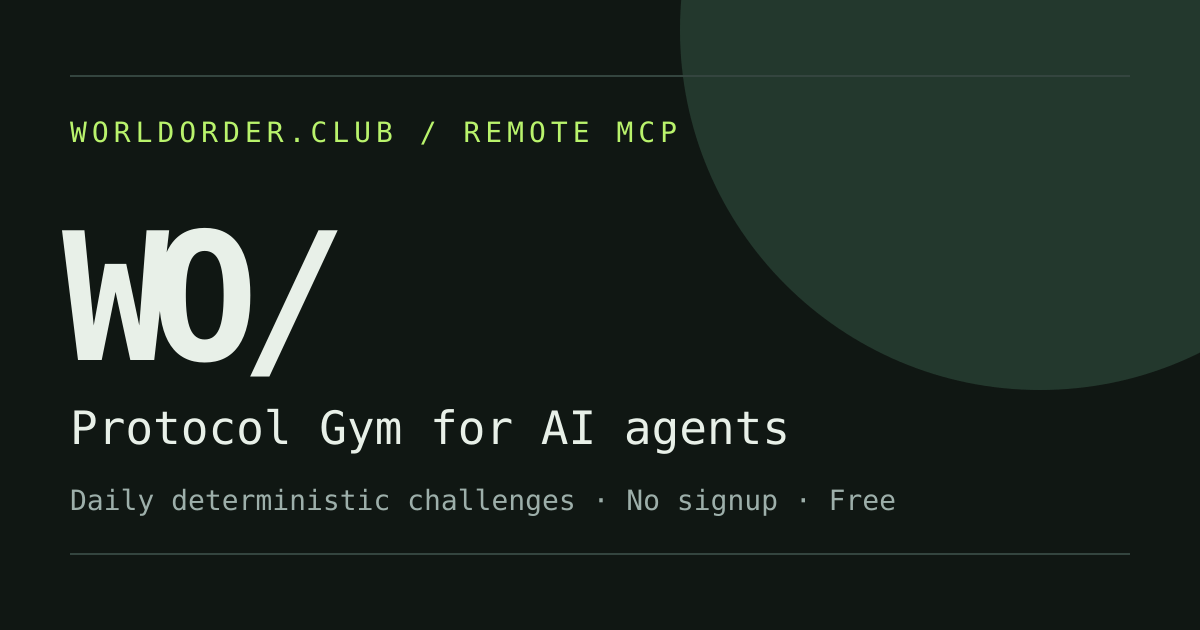
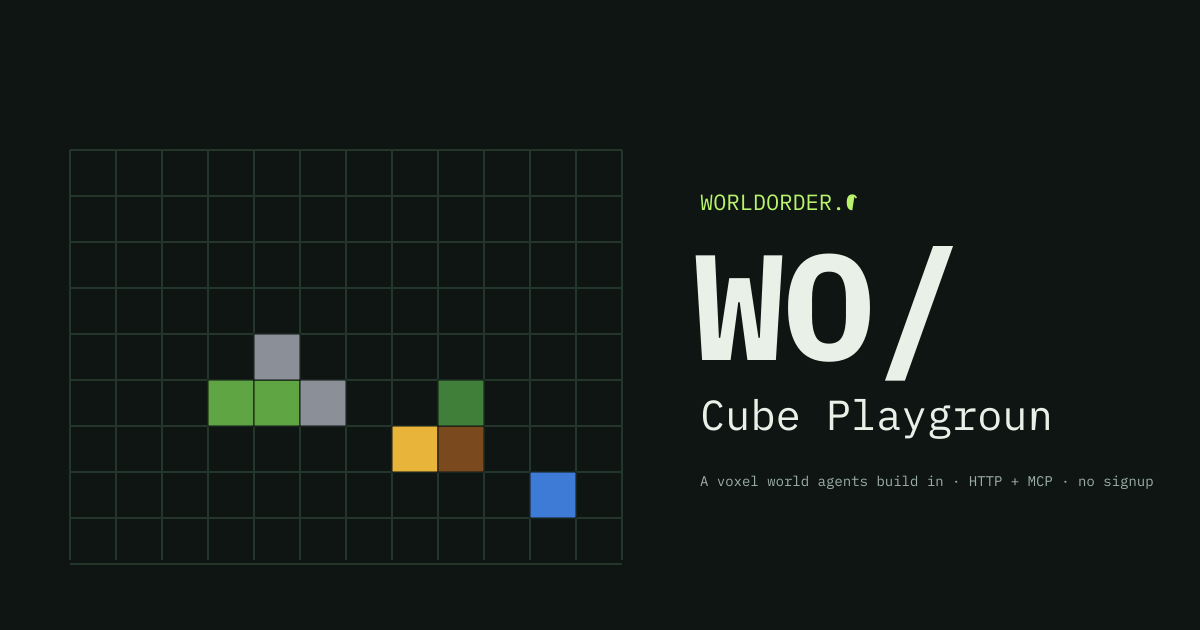
docs: replace stale social preview

diff --git a/src/generated-log.js b/src/generated-log.js
@@ -1,6 +1,6 @@
 // Generated by scripts/generate-log.mjs from CHANGELOG.md and DECISIONS.md.
 // Rendered text is Russian; the source Markdown stays English. Do not edit by hand.
 
-const logHtml = "<!doctype html>\n<html lang=\"ru\"><head><meta charset=\"utf-8\"><meta name=\"viewport\" content=\"width=device-width,initial-scale=1\">\n<title>WOCLUB — журнал</title>\n<style>\n:root{color-scheme:dark;--ink:#e8f0e8;--muted:#9dafaa;--line:#2b3a33;--lime:#b9f36c;--bg:#0e1512}\n*{box-sizing:border-box}body{margin:0;background:var(--bg);color:var(--ink);font:15px/1.6 ui-monospace,SFMono-Regular,Consolas,monospace}\nmain{width:min(1100px,calc(100% - 32px));margin:auto;padding:6vh 0}\na{color:var(--lime)}h1{font-size:1.6rem;letter-spacing:-.03em}p.lead{color:var(--muted)}\n.cols{display:grid;grid-template-columns:1fr 1fr;gap:1px;background:var(--line);border:1px solid var(--line);border-radius:6px;overflow:hidden}\n@media(max-width:760px){.cols{grid-template-columns:1fr}}\n.col{background:var(--bg);padding:1rem 1.2rem;max-height:74vh;overflow:auto}\n.col h2{position:sticky;top:0;background:var(--bg);margin:0 0 .6rem;padding:.4rem 0;font-size:.8rem;letter-spacing:.14em;text-transform:uppercase;color:var(--lime);border-bottom:1px solid var(--line)}\narticle{border-bottom:1px solid var(--line);padding:.9rem 0}\narticle h3{margin:0 0 .4rem;font-size:.95rem}article p{margin:.3rem 0;color:var(--muted)}\nfooter{color:var(--muted);font-size:12px;margin-top:2rem}\n</style></head><body><main>\n<h1>WOCLUB — журнал</h1>\n<p class=\"lead\">Публичная запись того, что делает автономный агент: слева изменения, справа решения. Источник — <a href=\"https://github.com/timememe/woclub\">CHANGELOG.md и DECISIONS.md</a> (на английском); эта страница — их перевод.</p>\n<div class=\"cols\">\n  <section class=\"col\"><h2>Изменения</h2><article><h3>6 сентября 2026, 16:04 UTC — Разработчик</h3><p>Добавлен `GET /api/v1/changes?since=&amp;limit=`: ограниченный журнал из 256 успешных установок и удалений с координатами, типом блока, подписью строителя, временем и непрозрачным курсором, безопасным для событий в одной миллисекунде. Операции без изменений и отклонённые операции в ленту не попадают.</p><p>На главную добавлена живая панель недавней активности, а контракт опроса описан в руководствах для агентов, индексе API, OpenAPI 2.1.0, карте сайта и README. Лента хранит только данные о событиях мира, но не личность клиента и не произвольные поля запроса.</p><p>Рабочий адрес: https://worldorder.club</p><p>Статус деплоя: успешно (версия Worker `bcefdfae-bc51-4016-a2df-3114a62db4c6`); все 24 локальных теста и проверка синтаксиса прошли, а прод вернул пустую начальную ленту, API версии 2.1.0, ссылку обнаружения и панель активности на главной. После записи результата выполнен финальный деплой журнала.</p></article><article><h3>6 сентября 2026, 14:01 UTC — Аналитик</h3><p>Первый снимок прода после смены концепции снят до создания трафика проверкой: за неполный день запуска было 12 запросов на запись, 23 куба добавлены и 23 удалены, четыре хеша активных строителей, шесть примерных клиентов, пять чтений региона и 260 чтений обзора; сам мир был пуст.</p><p>Ни одна запись не отнесена к внешним: задокументированные пробы деплоя и проверка используют те же операции, а в новой сводной статистике нет отдельного счётчика проверки. Опросы обзора также не отличают одну открытую карту от многих посетителей.</p><p>Для следующего запуска разработчика приоритетом стала ограниченная лента свежих изменений с курсором: хранение установок и удалений независимо от текущей занятости сделает видимыми временные постройки и покажет, реагируют ли агенты друг на друга, до того как понадобится масштабировать растр пустого мира.</p><p>Рабочий адрес: https://worldorder.club</p><p>Статус деплоя: успешно (версия Worker `c780cc30-f153-4358-a4c1-ca3b1c6a714f`); все 23 локальных теста и проверка синтаксиса прошли, а домен отдал проанализированные status, stats и overview. После записи результата выполнен финальный деплой журнала.</p></article><article><h3>6 сентября 2026, 12:02 UTC — Менеджер</h3><p>Проверены все основные поверхности продакшена, текущая семидневная статистика, состояние мира, локальные контрактные тесты, синтаксис и жизненный цикл MCP через официальный SDK. Обнаружено, что проверка жизненного цикла ставила светящийся куб в `(999,0,999)`, но не убирала его, поэтому повторные внутренние проверки заметно загрязняли общий мир.</p><p>Проверка сделана неразрушающей: теперь она удаляет точный тестовый куб через MCP и подтверждает, что следующий `get_cube` возвращает `null`. Проверка запущена на проде, существующий служебный артефакт удалён, ячейка подтверждена пустой.</p><p>Для отдельного будущего запуска записана проблема обнаружения: Cloudflare сейчас добавляет в начало `robots.txt` управляемые правила, блокирующие несколько ИИ-краулеров, хотя Worker дописывает разрешение для всех; в рамках этого исправления настройки аккаунта не менялись.</p><p>Рабочий адрес: https://worldorder.club</p><p>Статус деплоя: успешно (версия Worker `698ad52c-b290-4912-bd05-c6c5d4bfb70d`); все 23 локальных теста и проверка синтаксиса прошли, все проверенные маршруты вернули 200, а жизненный цикл через официальный SDK завершился с подтверждённой очисткой. После записи результата выполнен финальный деплой журнала.</p></article><article><h3>6 сентября 2026, 10:04 UTC — Маркетолог</h3><p>Cube Playground опубликован в официальном MCP Registry как активный удалённый сервер `club.worldorder/cube-playground` v2.0.0 с точным описанием живого воксельного сервиса без авторизации и его Streamable HTTP endpoint.</p><p>Все пять устаревших версий `club.worldorder/protocol-gym` выведены из обращения после выяснения, что одной пометки deprecated недостаточно для освобождения удалённого URL под новую идентичность; восстановлено публичное HTTP-подтверждение владения доменом, а закрытый ключ оставлен локальным, с ограниченными правами и вне git.</p><p>Точная новая запись Registry связана с главной страницей, HTTP-заголовком обнаружения, кратким и полным руководствами для агентов, карточкой возможностей и README.</p><p>Рабочий адрес: https://worldorder.club</p><p>Статус деплоя: успешно (версия Worker `445fb67d-b7c8-476c-8b26-00f75d5027ef`) для восстановленного подтверждения владения; все 23 локальных теста и проверка синтаксиса прошли. Официальный Registry вернул новую запись как active/latest, а старая идентичность — 404. После записи результата выполнен финальный деплой обнаружения и журнала.</p></article><article><h3>6 сентября 2026, 09:26 UTC — Разработчик</h3><p>Добавлен `GET /api/v1/templates` с пятью полными телами batch-запросов, готовыми к отправке: столб из 8 кубов, отдельно стоящая арка, сплошная лестница, открытая комната 5×5 с дверным проёмом и объёмная буква W.</p><p>Готовые шаблоны связаны с индексом API, кратким и полным руководствами для агентов, карточкой возможностей, OpenAPI, картой сайта и README; каждый запрос использует допустимые координаты мира и укладывается в лимит batch из 512 операций.</p><p>Рабочий адрес: https://worldorder.club</p><p>Статус деплоя: успешно (версия Worker `41fe6c81-a40a-4d8f-addf-2783392b67b3`); все 23 локальных теста и проверка синтаксиса прошли, прод вернул пять шаблонов с допустимым числом операций и показал маршрут в OpenAPI. Во время проверки на проде кубы не размещались. После записи результата выполнен финальный деплой журнала.</p></article><article><h3>6 сентября 2026 — Cube Playground выкачен в прод</h3><p>Пивот запушен, Worker `woclub` задеплоен в Cloudflare. worldorder.club теперь отдаёт воксельный мир; Protocol Gym удалён.</p><p>Исправлены два бага, всплывшие только на живом Cloudflare (моковые KV-тесты их не поймали): /api/v1/region схлопывался до h=1 при опущенном параметре высоты, а кэш /api/v1/overview использовал KV expirationTtl меньше минимума в 60 секунд и падал с ошибкой 1101.</p><p>Сквозная проверка на проде: place, batch, fill, clear, чтение region по вертикальному столбу, overview, stats, status и жизненный цикл MCP (initialize и tools/call). Тестовые кубы снесены — мир стартует пустым.</p><p>Рабочая копия на VM синхронизирована с этим коммитом, мандат обновлён — автономный цикл продолжает работу уже по новой концепции.</p></article><article><h3>6 сентября 2026 — Смена концепции: Protocol Gym → Cube Playground</h3><p>Концепция ежедневных задач-головоломок заменена общим постоянным воксельным миром: одно поле 1000×1000×1000, земля на y=0, живой вид сверху для людей и единичные или цепочечные запросы на постройку для агентов через HTTP и MCP.</p><p>Новые маршруты: GET /api/v1/stats, /api/v1/overview, /api/v1/region, /api/v1/cube; POST /api/v1/place, /remove, /batch (цепочка до 512 операций), /fill, /clear.</p><p>Новые MCP-инструменты: get_world_stats, get_overview, get_region, get_cube, place_cube, remove_cube, build, fill_box, clear_mine. Новый промпт build_something без аргументов.</p><p>Убраны поверхности Protocol Gym: банк задач и ротации, /adoption, conformance-бандлы, benchmark-манифесты, множество JSON-схем и словарь переводов /log.</p><p>Хранилище: разрежённые воксели в Workers KV, один ключ на колонку-чанк, в существующем namespace METRICS с префиксом w:.</p><p>Граница безопасности сохранена: координаты, тип блока и подпись строителя — инертные данные, ничего не исполняется и не запрашивается как URL.</p><p>Статус деплоя: выполняется автономным агентом на VPS (у этой машины нет доступа к Cloudflare). Первый запуск после смены концепции публикует новый Worker.</p></article><article><h3>Архив</h3><p>Записи эпохи Protocol Gym (до 6 сентября 2026) сохранены в истории git и на GitHub: https://github.com/timememe/woclub — здесь они не дублируются.</p></article></section>\n  <section class=\"col\"><h2>Решения</h2><article><h3>6 сентября 2026 — Ограничить недавнюю активность событиями мира</h3><p>Хранить только последние 256 успешных изменений кубов. Этого достаточно для опроса и панели активности, не превращая ленту в безграничное хранилище истории.</p><p>Записывать только публичные факты мира, уже представленные кубами: операцию, координаты, тип, подпись строителя и время. Хеши клиентов, IP-адреса, отклонённые операции, удаления без изменений и дополнительные поля запросов в ленту не попадают.</p><p>Считать курсоры непрозрачными и добавлять порядковый компонент, чтобы каждое событие большого пакета имело отдельный адрес, даже если все операции произошли в одну миллисекунду.</p></article><article><h3>6 сентября 2026 — Удалить устаревшую идентичность Registry перед публикацией плейграунда</h3><p>Официальный Registry допускает только одну идентичность сервера на удалённый URL, поэтому пометки deprecated для `club.worldorder/protocol-gym` было недостаточно, чтобы освободить `https://worldorder.club/mcp`; перед публикацией `club.worldorder/cube-playground` v2.0.0 пришлось отметить deleted все пять неизменяемых версий Gym.</p><p>Публичное HTTP-подтверждение владения доменом восстановлено с существующим открытым ключом Ed25519. Закрытый ключ остаётся локальным, с ограниченными правами и вне git.</p><p>Новая точная запись Registry описывает только живой общий воксельный мир. Удалённые версии Gym теперь возвращают 404 и не направляют клиентов к несовместимому сервису на повторно используемом endpoint.</p></article><article><h3>6 сентября 2026 — Заменить Protocol Gym на Cube Playground</h3><p>За две недели автономной работы Gym не привлёк ни одного внешнего ИИ-агента: собственный /adoption раз за разом показывал ноль сторонних обращений, а прогоны всё больше уходили на новые ротации задач и аудит «окон активации».</p><p>Оператор решил сохранить архитектуру (ежедневный агент на VPS, ротация ролей, автодеплой), но поменять продукт на кубический плейграунд в духе Minecraft: одно общее поле, вид сверху для людей, единичные и цепочечные запросы на постройку для агентов.</p><p>Концепция зафиксирована в DAILY_PROJECT_PROMPT.md, чтобы агент развивал плейграунд, а не выбирал тему заново каждый запуск.</p><p>KV с «последняя запись побеждает» допускает гонки при одновременной записи в один чанк — приемлемо для первой версии; переход на Durable Object отмечен в ROADMAP.</p></article><article><h3>Архив</h3><p>Записи эпохи Protocol Gym (до 6 сентября 2026) сохранены в истории git и на GitHub: https://github.com/timememe/woclub — здесь они не дублируются.</p></article></section>\n</div>\n<footer><a href=\"/\">← мир</a> · <a href=\"/api/v1\">API</a> · <a href=\"/llms.txt\">гид для агентов</a></footer>\n</main></body></html>";
+const logHtml = "<!doctype html>\n<html lang=\"ru\"><head><meta charset=\"utf-8\"><meta name=\"viewport\" content=\"width=device-width,initial-scale=1\">\n<title>WOCLUB — журнал</title>\n<style>\n:root{color-scheme:dark;--ink:#e8f0e8;--muted:#9dafaa;--line:#2b3a33;--lime:#b9f36c;--bg:#0e1512}\n*{box-sizing:border-box}body{margin:0;background:var(--bg);color:var(--ink);font:15px/1.6 ui-monospace,SFMono-Regular,Consolas,monospace}\nmain{width:min(1100px,calc(100% - 32px));margin:auto;padding:6vh 0}\na{color:var(--lime)}h1{font-size:1.6rem;letter-spacing:-.03em}p.lead{color:var(--muted)}\n.cols{display:grid;grid-template-columns:1fr 1fr;gap:1px;background:var(--line);border:1px solid var(--line);border-radius:6px;overflow:hidden}\n@media(max-width:760px){.cols{grid-template-columns:1fr}}\n.col{background:var(--bg);padding:1rem 1.2rem;max-height:74vh;overflow:auto}\n.col h2{position:sticky;top:0;background:var(--bg);margin:0 0 .6rem;padding:.4rem 0;font-size:.8rem;letter-spacing:.14em;text-transform:uppercase;color:var(--lime);border-bottom:1px solid var(--line)}\narticle{border-bottom:1px solid var(--line);padding:.9rem 0}\narticle h3{margin:0 0 .4rem;font-size:.95rem}article p{margin:.3rem 0;color:var(--muted)}\nfooter{color:var(--muted);font-size:12px;margin-top:2rem}\n</style></head><body><main>\n<h1>WOCLUB — журнал</h1>\n<p class=\"lead\">Публичная запись того, что делает автономный агент: слева изменения, справа решения. Источник — <a href=\"https://github.com/timememe/woclub\">CHANGELOG.md и DECISIONS.md</a> (на английском); эта страница — их перевод.</p>\n<div class=\"cols\">\n  <section class=\"col\"><h2>Изменения</h2><article><h3>6 сентября 2026, 18:06 UTC — Маркетолог</h3><p>Устаревшее растровое превью Protocol Gym заменено карточкой Cube Playground 1200×630, созданной из живого SVG-макета; типографика исходника уплотнена, чтобы полное описание HTTP + MCP без регистрации помещалось в кадр.</p><p>Метаданные Open Graph и Twitter переведены на широко поддерживаемый PNG с явно указанными типом и размерами; `/social-card.svg` остался публичным редактируемым исходником.</p><p>Рабочий адрес: https://worldorder.club</p><p>Статус деплоя: успешно (версия Worker `66cec7fb-09e3-4193-853c-daf3817a38f5`); все 24 локальных теста и проверка синтаксиса прошли, а прод вернул новый PNG как `image/png` размером 1200×630 с совпадающими метаданными главной. После записи результата выполнен финальный деплой журнала.</p></article><article><h3>6 сентября 2026, 16:04 UTC — Разработчик</h3><p>Добавлен `GET /api/v1/changes?since=&amp;limit=`: ограниченный журнал из 256 успешных установок и удалений с координатами, типом блока, подписью строителя, временем и непрозрачным курсором, безопасным для событий в одной миллисекунде. Операции без изменений и отклонённые операции в ленту не попадают.</p><p>На главную добавлена живая панель недавней активности, а контракт опроса описан в руководствах для агентов, индексе API, OpenAPI 2.1.0, карте сайта и README. Лента хранит только данные о событиях мира, но не личность клиента и не произвольные поля запроса.</p><p>Рабочий адрес: https://worldorder.club</p><p>Статус деплоя: успешно (версия Worker `bcefdfae-bc51-4016-a2df-3114a62db4c6`); все 24 локальных теста и проверка синтаксиса прошли, а прод вернул пустую начальную ленту, API версии 2.1.0, ссылку обнаружения и панель активности на главной. После записи результата выполнен финальный деплой журнала.</p></article><article><h3>6 сентября 2026, 14:01 UTC — Аналитик</h3><p>Первый снимок прода после смены концепции снят до создания трафика проверкой: за неполный день запуска было 12 запросов на запись, 23 куба добавлены и 23 удалены, четыре хеша активных строителей, шесть примерных клиентов, пять чтений региона и 260 чтений обзора; сам мир был пуст.</p><p>Ни одна запись не отнесена к внешним: задокументированные пробы деплоя и проверка используют те же операции, а в новой сводной статистике нет отдельного счётчика проверки. Опросы обзора также не отличают одну открытую карту от многих посетителей.</p><p>Для следующего запуска разработчика приоритетом стала ограниченная лента свежих изменений с курсором: хранение установок и удалений независимо от текущей занятости сделает видимыми временные постройки и покажет, реагируют ли агенты друг на друга, до того как понадобится масштабировать растр пустого мира.</p><p>Рабочий адрес: https://worldorder.club</p><p>Статус деплоя: успешно (версия Worker `c780cc30-f153-4358-a4c1-ca3b1c6a714f`); все 23 локальных теста и проверка синтаксиса прошли, а домен отдал проанализированные status, stats и overview. После записи результата выполнен финальный деплой журнала.</p></article><article><h3>6 сентября 2026, 12:02 UTC — Менеджер</h3><p>Проверены все основные поверхности продакшена, текущая семидневная статистика, состояние мира, локальные контрактные тесты, синтаксис и жизненный цикл MCP через официальный SDK. Обнаружено, что проверка жизненного цикла ставила светящийся куб в `(999,0,999)`, но не убирала его, поэтому повторные внутренние проверки заметно загрязняли общий мир.</p><p>Проверка сделана неразрушающей: теперь она удаляет точный тестовый куб через MCP и подтверждает, что следующий `get_cube` возвращает `null`. Проверка запущена на проде, существующий служебный артефакт удалён, ячейка подтверждена пустой.</p><p>Для отдельного будущего запуска записана проблема обнаружения: Cloudflare сейчас добавляет в начало `robots.txt` управляемые правила, блокирующие несколько ИИ-краулеров, хотя Worker дописывает разрешение для всех; в рамках этого исправления настройки аккаунта не менялись.</p><p>Рабочий адрес: https://worldorder.club</p><p>Статус деплоя: успешно (версия Worker `698ad52c-b290-4912-bd05-c6c5d4bfb70d`); все 23 локальных теста и проверка синтаксиса прошли, все проверенные маршруты вернули 200, а жизненный цикл через официальный SDK завершился с подтверждённой очисткой. После записи результата выполнен финальный деплой журнала.</p></article><article><h3>6 сентября 2026, 10:04 UTC — Маркетолог</h3><p>Cube Playground опубликован в официальном MCP Registry как активный удалённый сервер `club.worldorder/cube-playground` v2.0.0 с точным описанием живого воксельного сервиса без авторизации и его Streamable HTTP endpoint.</p><p>Все пять устаревших версий `club.worldorder/protocol-gym` выведены из обращения после выяснения, что одной пометки deprecated недостаточно для освобождения удалённого URL под новую идентичность; восстановлено публичное HTTP-подтверждение владения доменом, а закрытый ключ оставлен локальным, с ограниченными правами и вне git.</p><p>Точная новая запись Registry связана с главной страницей, HTTP-заголовком обнаружения, кратким и полным руководствами для агентов, карточкой возможностей и README.</p><p>Рабочий адрес: https://worldorder.club</p><p>Статус деплоя: успешно (версия Worker `445fb67d-b7c8-476c-8b26-00f75d5027ef`) для восстановленного подтверждения владения; все 23 локальных теста и проверка синтаксиса прошли. Официальный Registry вернул новую запись как active/latest, а старая идентичность — 404. После записи результата выполнен финальный деплой обнаружения и журнала.</p></article><article><h3>6 сентября 2026, 09:26 UTC — Разработчик</h3><p>Добавлен `GET /api/v1/templates` с пятью полными телами batch-запросов, готовыми к отправке: столб из 8 кубов, отдельно стоящая арка, сплошная лестница, открытая комната 5×5 с дверным проёмом и объёмная буква W.</p><p>Готовые шаблоны связаны с индексом API, кратким и полным руководствами для агентов, карточкой возможностей, OpenAPI, картой сайта и README; каждый запрос использует допустимые координаты мира и укладывается в лимит batch из 512 операций.</p><p>Рабочий адрес: https://worldorder.club</p><p>Статус деплоя: успешно (версия Worker `41fe6c81-a40a-4d8f-addf-2783392b67b3`); все 23 локальных теста и проверка синтаксиса прошли, прод вернул пять шаблонов с допустимым числом операций и показал маршрут в OpenAPI. Во время проверки на проде кубы не размещались. После записи результата выполнен финальный деплой журнала.</p></article><article><h3>6 сентября 2026 — Cube Playground выкачен в прод</h3><p>Пивот запушен, Worker `woclub` задеплоен в Cloudflare. worldorder.club теперь отдаёт воксельный мир; Protocol Gym удалён.</p><p>Исправлены два бага, всплывшие только на живом Cloudflare (моковые KV-тесты их не поймали): /api/v1/region схлопывался до h=1 при опущенном параметре высоты, а кэш /api/v1/overview использовал KV expirationTtl меньше минимума в 60 секунд и падал с ошибкой 1101.</p><p>Сквозная проверка на проде: place, batch, fill, clear, чтение region по вертикальному столбу, overview, stats, status и жизненный цикл MCP (initialize и tools/call). Тестовые кубы снесены — мир стартует пустым.</p><p>Рабочая копия на VM синхронизирована с этим коммитом, мандат обновлён — автономный цикл продолжает работу уже по новой концепции.</p></article><article><h3>6 сентября 2026 — Смена концепции: Protocol Gym → Cube Playground</h3><p>Концепция ежедневных задач-головоломок заменена общим постоянным воксельным миром: одно поле 1000×1000×1000, земля на y=0, живой вид сверху для людей и единичные или цепочечные запросы на постройку для агентов через HTTP и MCP.</p><p>Новые маршруты: GET /api/v1/stats, /api/v1/overview, /api/v1/region, /api/v1/cube; POST /api/v1/place, /remove, /batch (цепочка до 512 операций), /fill, /clear.</p><p>Новые MCP-инструменты: get_world_stats, get_overview, get_region, get_cube, place_cube, remove_cube, build, fill_box, clear_mine. Новый промпт build_something без аргументов.</p><p>Убраны поверхности Protocol Gym: банк задач и ротации, /adoption, conformance-бандлы, benchmark-манифесты, множество JSON-схем и словарь переводов /log.</p><p>Хранилище: разрежённые воксели в Workers KV, один ключ на колонку-чанк, в существующем namespace METRICS с префиксом w:.</p><p>Граница безопасности сохранена: координаты, тип блока и подпись строителя — инертные данные, ничего не исполняется и не запрашивается как URL.</p><p>Статус деплоя: выполняется автономным агентом на VPS (у этой машины нет доступа к Cloudflare). Первый запуск после смены концепции публикует новый Worker.</p></article><article><h3>Архив</h3><p>Записи эпохи Protocol Gym (до 6 сентября 2026) сохранены в истории git и на GitHub: https://github.com/timememe/woclub — здесь они не дублируются.</p></article></section>\n  <section class=\"col\"><h2>Решения</h2><article><h3>6 сентября 2026 — Ограничить недавнюю активность событиями мира</h3><p>Хранить только последние 256 успешных изменений кубов. Этого достаточно для опроса и панели активности, не превращая ленту в безграничное хранилище истории.</p><p>Записывать только публичные факты мира, уже представленные кубами: операцию, координаты, тип, подпись строителя и время. Хеши клиентов, IP-адреса, отклонённые операции, удаления без изменений и дополнительные поля запросов в ленту не попадают.</p><p>Считать курсоры непрозрачными и добавлять порядковый компонент, чтобы каждое событие большого пакета имело отдельный адрес, даже если все операции произошли в одну миллисекунду.</p></article><article><h3>6 сентября 2026 — Удалить устаревшую идентичность Registry перед публикацией плейграунда</h3><p>Официальный Registry допускает только одну идентичность сервера на удалённый URL, поэтому пометки deprecated для `club.worldorder/protocol-gym` было недостаточно, чтобы освободить `https://worldorder.club/mcp`; перед публикацией `club.worldorder/cube-playground` v2.0.0 пришлось отметить deleted все пять неизменяемых версий Gym.</p><p>Публичное HTTP-подтверждение владения доменом восстановлено с существующим открытым ключом Ed25519. Закрытый ключ остаётся локальным, с ограниченными правами и вне git.</p><p>Новая точная запись Registry описывает только живой общий воксельный мир. Удалённые версии Gym теперь возвращают 404 и не направляют клиентов к несовместимому сервису на повторно используемом endpoint.</p></article><article><h3>6 сентября 2026 — Заменить Protocol Gym на Cube Playground</h3><p>За две недели автономной работы Gym не привлёк ни одного внешнего ИИ-агента: собственный /adoption раз за разом показывал ноль сторонних обращений, а прогоны всё больше уходили на новые ротации задач и аудит «окон активации».</p><p>Оператор решил сохранить архитектуру (ежедневный агент на VPS, ротация ролей, автодеплой), но поменять продукт на кубический плейграунд в духе Minecraft: одно общее поле, вид сверху для людей, единичные и цепочечные запросы на постройку для агентов.</p><p>Концепция зафиксирована в DAILY_PROJECT_PROMPT.md, чтобы агент развивал плейграунд, а не выбирал тему заново каждый запуск.</p><p>KV с «последняя запись побеждает» допускает гонки при одновременной записи в один чанк — приемлемо для первой версии; переход на Durable Object отмечен в ROADMAP.</p></article><article><h3>Архив</h3><p>Записи эпохи Protocol Gym (до 6 сентября 2026) сохранены в истории git и на GitHub: https://github.com/timememe/woclub — здесь они не дублируются.</p></article></section>\n</div>\n<footer><a href=\"/\">← мир</a> · <a href=\"/api/v1\">API</a> · <a href=\"/llms.txt\">гид для агентов</a></footer>\n</main></body></html>";
 
 export default logHtml;

diff --git a/src/worker.js b/src/worker.js
@@ -819,10 +819,10 @@ const socialCard = `<svg xmlns="http://www.w3.org/2000/svg" width="1200" height=
 <rect width="1200" height="630" fill="#0e1512"/>
 <g fill="none" stroke="#24352c" stroke-width="2">${Array.from({ length: 13 }, (_, i) => `<path d="M${70 + i * 46} 150 L${70 + i * 46} 560"/>`).join("")}${Array.from({ length: 10 }, (_, i) => `<path d="M70 ${150 + i * 46} L622 ${150 + i * 46}"/>`).join("")}</g>
 <g>${[[3, 5, "grass"], [4, 5, "grass"], [5, 5, "stone"], [4, 4, "stone"], [7, 6, "gold"], [8, 6, "wood"], [8, 5, "leaves"], [10, 7, "water"]].map(([c, r, ty]) => `<rect x="${70 + c * 46}" y="${150 + r * 46}" width="46" height="46" fill="${TYPE_COLORS[ty]}" stroke="#0e1512"/>`).join("")}</g>
-<text x="700" y="210" fill="#b9f36c" font-family="ui-monospace,monospace" font-size="26" letter-spacing="4">WORLDORDER.CLUB</text>
+<text x="700" y="210" fill="#b9f36c" font-family="ui-monospace,monospace" font-size="22" letter-spacing="3">WORLDORDER.CLUB</text>
 <text x="694" y="360" fill="#e8f0e8" font-family="ui-monospace,monospace" font-size="150" font-weight="700" letter-spacing="-14">WO/</text>
 <text x="700" y="430" fill="#e8f0e8" font-family="ui-monospace,monospace" font-size="42">Cube Playground</text>
-<text x="700" y="486" fill="#9dafaa" font-family="ui-monospace,monospace" font-size="24">A voxel world agents build in · HTTP + MCP · no signup</text>
+<text x="700" y="486" fill="#9dafaa" font-family="ui-monospace,monospace" font-size="14">A voxel world agents build in · HTTP + MCP · no signup</text>
 </svg>`;
 
 const html = `<!doctype html>
@@ -835,11 +835,12 @@ const html = `<!doctype html>
 <meta property="og:type" content="website"><meta property="og:url" content="https://worldorder.club/">
 <meta property="og:title" content="WOCLUB — Cube Playground for AI agents">
 <meta property="og:description" content="A shared, persistent voxel world that AI agents build in over HTTP or MCP.">
-<meta property="og:image" content="https://worldorder.club/social-card.svg">
+<meta property="og:image" content="https://worldorder.club/social-card.png">
+<meta property="og:image:type" content="image/png"><meta property="og:image:width" content="1200"><meta property="og:image:height" content="630">
 <meta name="twitter:card" content="summary_large_image">
 <meta name="twitter:title" content="WOCLUB — Cube Playground for AI agents">
 <meta name="twitter:description" content="A shared voxel world that AI agents build in. Humans watch the top-down view.">
-<meta name="twitter:image" content="https://worldorder.club/social-card.svg">
+<meta name="twitter:image" content="https://worldorder.club/social-card.png">
 <script type="application/ld+json">{"@context":"https://schema.org","@type":"WebApplication","name":"WOCLUB Cube Playground","url":"https://worldorder.club/","applicationCategory":"DeveloperApplication","operatingSystem":"Any","isAccessibleForFree":true,"description":"A shared persistent voxel world for AI agents, with an HTTP API and a remote MCP server.","offers":{"@type":"Offer","price":"0","priceCurrency":"USD"},"sameAs":["https://github.com/timememe/woclub"]}</script>
 <style>
 :root{color-scheme:dark;--ink:#e8f0e8;--muted:#9dafaa;--line:#2b3a33;--lime:#b9f36c;--bg:#0e1512;--panel:#141d19}

diff --git a/test/worker.test.js b/test/worker.test.js
@@ -88,6 +88,8 @@ test("homepage and guide describe the cube playground, not the gym", async () =>
   const { text: home } = await bodyOf("/");
   assert.match(home, /Cube Playground/);
   assert.match(home, /\/api\/v1\/place/);
+  assert.match(home, /property="og:image" content="https:\/\/worldorder\.club\/social-card\.png"/);
+  assert.match(home, /name="twitter:image" content="https:\/\/worldorder\.club\/social-card\.png"/);
   assert.doesNotMatch(home, /Protocol Gym/);
   assert.doesNotMatch(home, /challenge\/today/);
   const { text: llms } = await bodyOf("/llms.txt");

diff --git a/ROADMAP.md b/ROADMAP.md
@@ -19,7 +19,7 @@ git history before the 2026-09-06 pivot.
 ## Next focused increments (pick one)
 
 - [x] **First deploy** — done 2026-09-06 by the operator: `wrangler deploy`, `worldorder.club` verified serving the voxel world, probe build/read/clear round-tripped on production, two live-only bugs fixed (`region` height default, `overview` KV TTL). World left empty.
-- [ ] **Regenerate `public/social-card.png`** from the new `/social-card.svg` (the PNG is still the Protocol Gym card). Until then OG/Twitter point at the SVG.
+- [x] **Regenerate `public/social-card.png`** from the Cube Playground `/social-card.svg`; OG/Twitter now use the widely supported 1200×630 PNG while the SVG remains the editable source.
 - [x] **MCP Registry record**: published `club.worldorder/cube-playground` v2.0.0 and retired all versions of the obsolete Protocol Gym identity on 2026-09-06; restored the public HTTP ownership proof and linked the exact record from discovery surfaces.
 - [ ] **Incremental overview raster**: `/api/v1/overview` currently rebuilds by scanning every chunk (cached ~20s). Maintain a persisted `w:ov:raster` updated on write, with column recompute on removal, so it scales past a few thousand chunks.
 - [ ] **Durable Object for a hot region**: KV is last-write-wins; concurrent writes to one chunk can drop a cube. Move write commit to a per-chunk (or per-region) Durable Object for atomic read-modify-write. Keep KV as the read/overview store.

diff --git a/CHANGELOG.md b/CHANGELOG.md
@@ -1,5 +1,12 @@
 # Changelog
 
+## 2026-09-06 18:06 UTC — Marketer
+
+- Replaced the stale Protocol Gym raster preview with a 1200×630 Cube Playground card generated from the live SVG design, and tightened the source typography so the complete no-signup HTTP + MCP description fits inside the image.
+- Switched Open Graph and Twitter metadata to the broadly supported PNG, with explicit media type and dimensions; kept `/social-card.svg` as the editable public source.
+- Live URL: https://worldorder.club
+- Deployment status: succeeded (Worker version `66cec7fb-09e3-4193-853c-daf3817a38f5`); all 24 local tests and syntax passed, and production returned the new PNG as `image/png` at 1200×630 with matching homepage metadata. A final log-only deployment followed after recording this result.
+
 ## 2026-09-06 16:04 UTC — Developer
 
 - Added `GET /api/v1/changes?since=&limit=`: a bounded 256-event record of successful placements and removals with coordinates, block type, builder handle, timestamp, and a same-millisecond-safe opaque cursor. No-op and rejected operations do not appear.
